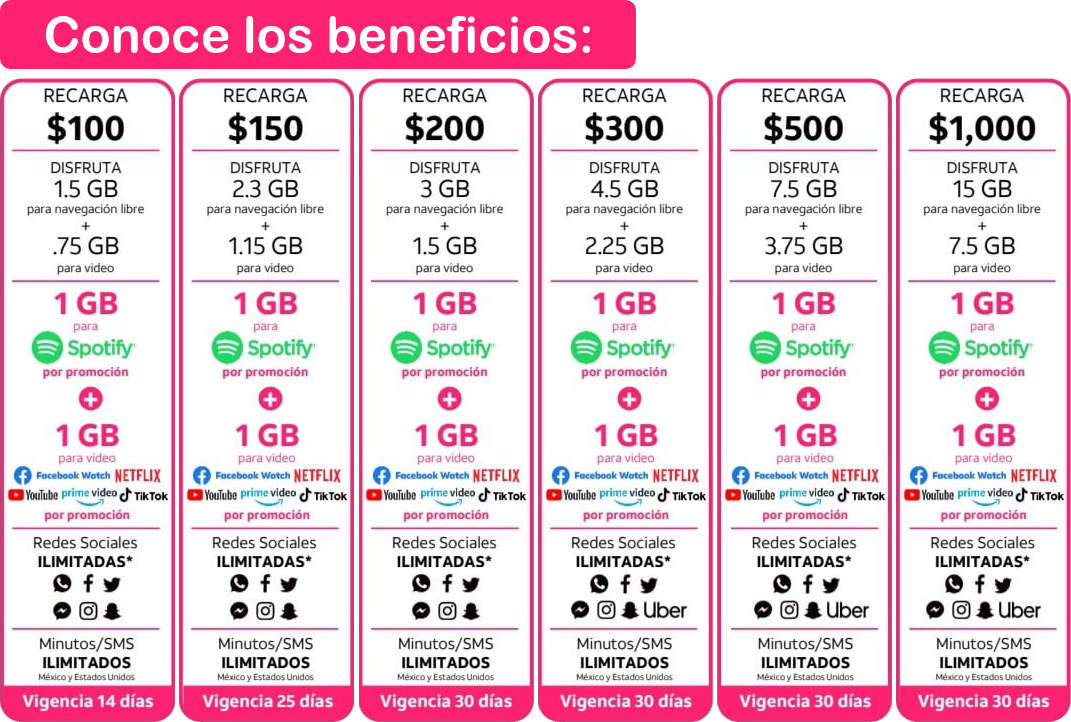
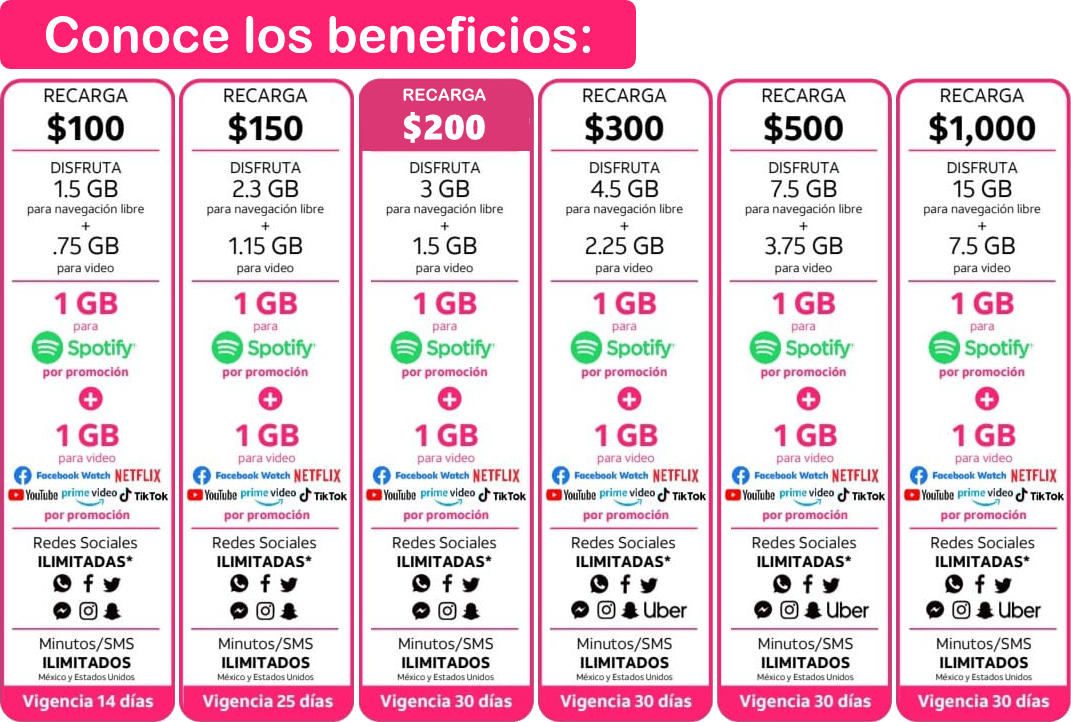
Correcciones visuales: remarcación de los beneficios de 200 en la parrilla de at&t. Corrección de informacion y cambio de colores

Changed region(s): [[0.3389, 0.0914, 0.493, 0.2133]]

diff --git a/pages/mechanics.vue b/pages/mechanics.vue
@@ -150,7 +150,7 @@
       * La Rifa bimestral del Smartphone y el quinto mes de regalo sólo aplican si se cumple con el
       criterio de las recargas antes estipuladas. Sólo participan los número que acumulen o
       recarguen $200 o más en el mes calendario, es decir, no corre el mes a partir de la fecha de
-      compra y sólo participan durante 5 meses a partir del mes en que se adquirió el chip.
+      compra y sólo participan durante 4 meses a partir del mes en que se adquirió el chip.
     </div>
   </div>
 </template>
@@ -227,7 +227,7 @@ $spacing: 2rem;
     margin-top: $spacing;
     padding: 0.8rem 1.6rem;
     border-radius: var(--border-radius);
-    background-image: linear-gradient(to right bottom, #d98230, #bf722a);
+    background-image: linear-gradient(to right bottom, #6a3093, #a044ff);
     position: relative;
 
     &::after {
@@ -268,6 +268,15 @@ $spacing: 2rem;
 
     .table:last-child {
       margin-top: $spacing;
+    }
+  }
+
+  &__raffle,
+  &__scene {
+    .text-center h2 {
+      font-size: 4rem !important;
+      text-transform: uppercase;
+      -webkit-text-stroke: 2px #d98230;
     }
   }
 }

diff --git a/assets/css/components/_table.scss b/assets/css/components/_table.scss
@@ -91,6 +91,7 @@
         'th2 td2 arrow1'
         'th3 td3 arrow2'
         'th4 td4 arrow2';
+      grid-template-rows: 1fr repeat(4, 10rem);
     }
   }
 
@@ -139,6 +140,8 @@
       align-items: center;
 
       span {
+        display: inline-block;
+        margin-right: 1rem;
         writing-mode: vertical-lr;
         flex: 0 0 40%;
       }
